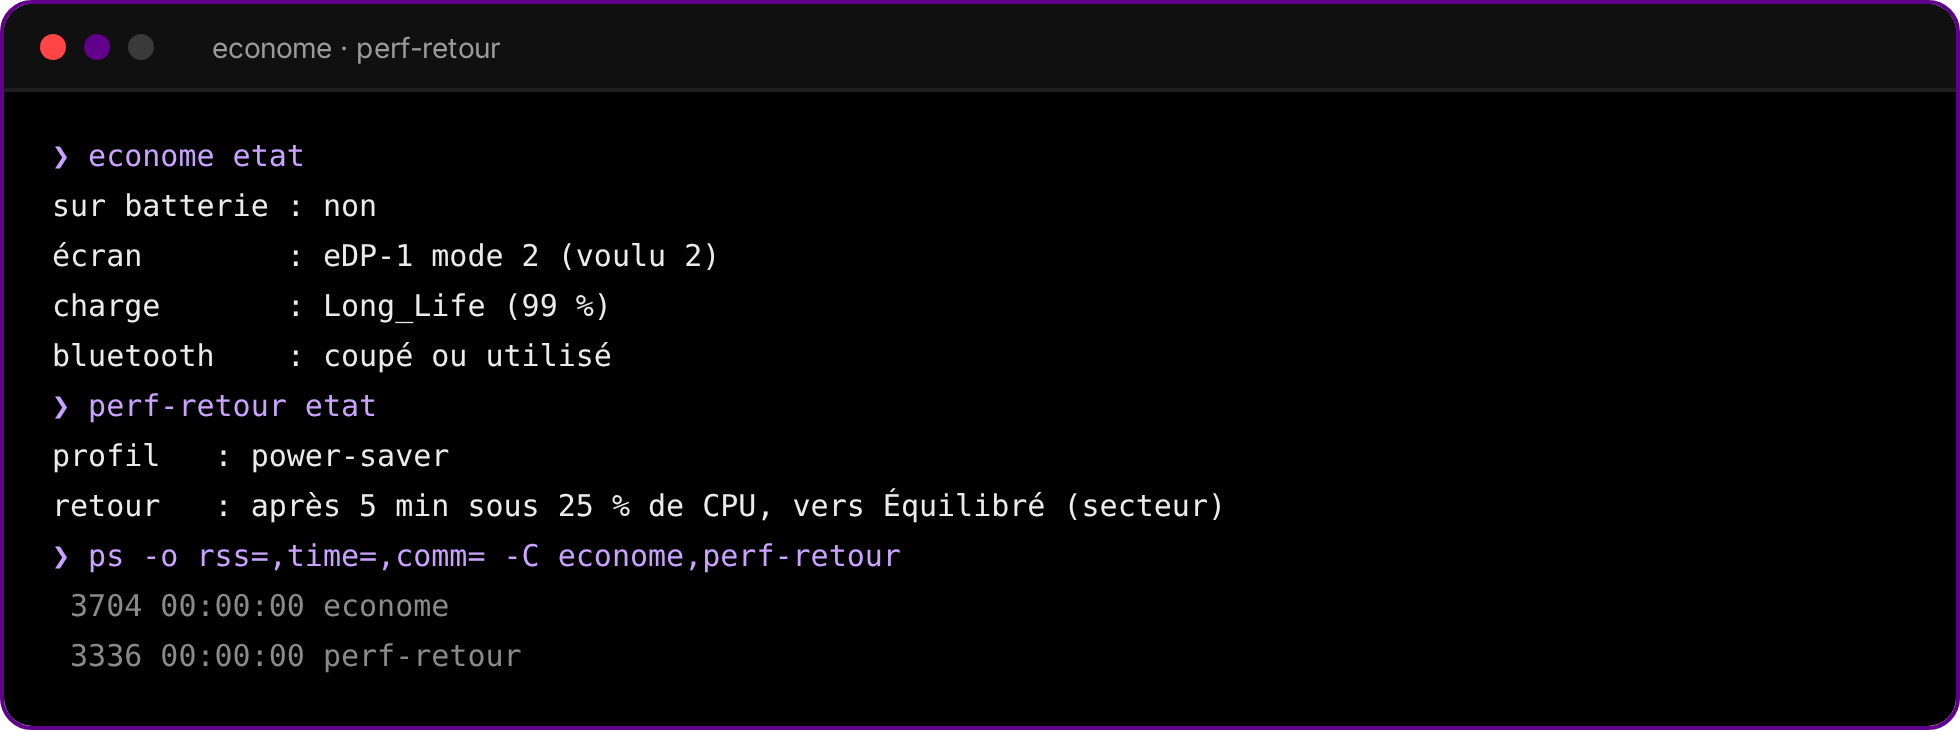
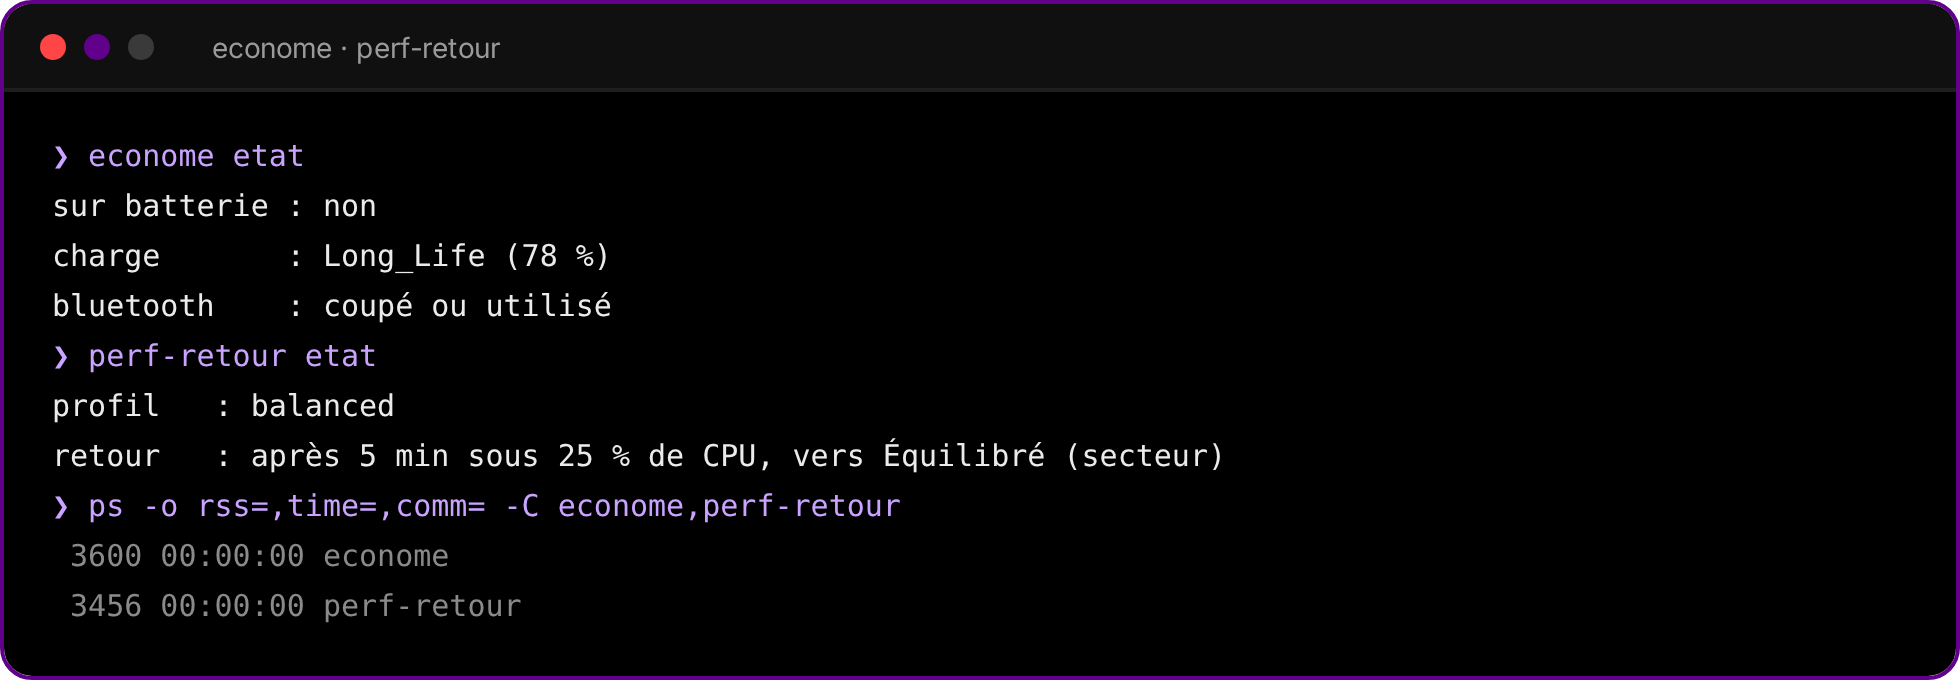
econome ne change plus la fréquence de l'écran
Chaque changement de fréquence faisait perdre à la dalle son auto-rafraîchissement
jusqu'au redémarrage : 2,95 W avec, 4,08 W sans, en 60 Hz au repos. LISEZ-MOI et
image mis à jour.

Source : d3b8789

diff --git a/econome/src/main.rs b/econome/src/main.rs
@@ -1,13 +1,11 @@
-// econome: three small battery savings in one sleeping process.
+// econome: two small battery savings in one sleeping process.
 //   - Bluetooth is rfkill-blocked after 10 min with nothing connected
-//   - the built-in screen goes to 60 Hz on battery, back to its fastest rate on AC
 //   - plugged in, full, and not in Conservation for 20 min: back to Conservation
 //
 // It waits on the system bus (UPower, BlueZ). The only timers: every 5 min while
 // on AC (the charge mode has no signal), and the Bluetooth deadline when armed.
 //
 // Command line: econome            daemon
-//               econome ecran batterie|secteur
 //               econome etat
 
 use dbus::arg::{prop_cast, PropMap, RefArg, Variant};
@@ -15,7 +13,6 @@ use dbus::blocking::stdintf::org_freedesktop_dbus::ObjectManager;
 use dbus::blocking::Connection;
 use dbus::channel::MatchingReceiver;
 use dbus::message::MatchRule;
-use serde_json::Value;
 use std::fs;
 use std::io::Write;
 use std::process::Command;
@@ -75,38 +72,6 @@ fn notify(icon: &str, title: &str, body: &str) {
         "Notify",
         ("Économie d'énergie", 0u32, icon, title, body, Vec::<String>::new(), hints, 5000i32),
     );
-}
-
-// Screen
-
-fn rate(mode: &Value) -> f64 {
-    mode["refreshRate"].as_f64().unwrap_or(0.0)
-}
-
-/// (output name, current mode id, wanted mode id) for the enabled built-in screen
-fn screen_plan(battery: bool) -> Option<(String, String, String)> {
-    let out = Command::new("kscreen-doctor").arg("-j").output().ok()?;
-    let json: Value = serde_json::from_slice(&out.stdout).ok()?;
-    // type 7 = Panel in libkscreen
-    let panel = json["outputs"].as_array()?.iter().find(|o| o["type"] == 7 && o["enabled"] == true)?;
-    let modes = panel["modes"].as_array()?;
-    let current = modes.iter().find(|m| m["id"] == panel["currentModeId"])?;
-    let same_size = modes.iter().filter(|m| m["size"] == current["size"]);
-    let wanted = if battery {
-        same_size.filter(|m| rate(m) >= 50.0).min_by(|a, b| (rate(a) - 60.0).abs().total_cmp(&(rate(b) - 60.0).abs()))?
-    } else {
-        same_size.max_by(|a, b| rate(a).total_cmp(&rate(b)))?
-    };
-    Some((panel["name"].as_str()?.to_string(), current["id"].as_str()?.to_string(), wanted["id"].as_str()?.to_string()))
-}
-
-fn set_screen(battery: bool) -> bool {
-    let Some((name, current, wanted)) = screen_plan(battery) else { return false };
-    if current == wanted {
-        return true;
-    }
-    let arg = format!("output.{name}.mode.{wanted}");
-    Command::new("kscreen-doctor").arg(arg).output().is_ok_and(|o| o.status.success())
 }
 
 // Bluetooth
@@ -192,7 +157,6 @@ fn run() -> Result<(), dbus::Error> {
         watch(&bus, rule.static_clone(), &bt)?;
     }
 
-    let mut screen_for: Option<bool> = None;
     let mut next_poll: Option<Instant> = None;
     let mut full_since: Option<Instant> = None;
     let mut bt_check: Option<Instant> = None;
@@ -202,16 +166,12 @@ fn run() -> Result<(), dbus::Error> {
         let now = Instant::now();
         if power.swap(false, Ordering::Relaxed) || next_poll.is_some_and(|t| t <= now) {
             let battery = on_battery();
-            // kscreen may not be ready at login: retry on the next poll
-            if screen_for != Some(battery) && set_screen(battery) {
-                screen_for = Some(battery);
-            }
             if battery {
                 full_since = None;
             } else {
                 back_to_conservation(&mut full_since, now, full_wait);
             }
-            next_poll = (!battery || screen_for != Some(battery)).then(|| now + AC_POLL);
+            next_poll = (!battery).then(|| now + AC_POLL);
         }
 
         if bt.swap(false, Ordering::Relaxed) {
@@ -249,19 +209,14 @@ fn main() {
                 std::process::exit(1);
             }
         }
-        ["ecran", which @ ("batterie" | "secteur")] => {
-            std::process::exit(if set_screen(*which == "batterie") { 0 } else { 1 });
-        }
         ["etat"] => {
             let bt = Connection::new_system().is_ok_and(|b| bluetooth_idle(&b));
-            let screen = screen_plan(on_battery()).map(|(n, c, w)| format!("{n} mode {c} (voulu {w})"));
             println!("sur batterie : {}", if on_battery() { "oui" } else { "non" });
-            println!("écran        : {}", screen.unwrap_or_else(|| "introuvable".into()));
             println!("charge       : {} ({} %)", charge_mode().unwrap_or_else(|| "?".into()), capacity());
             println!("bluetooth    : {}", if bt { "allumé, rien de connecté" } else { "coupé ou utilisé" });
         }
         _ => {
-            eprintln!("usage : econome [ecran batterie|secteur | etat]");
+            eprintln!("usage : econome [etat]");
             std::process::exit(2);
         }
     }

diff --git a/README.fr.md b/README.fr.md
@@ -4,17 +4,18 @@
 
 <p align="center"><a href="README.md">🇬🇧 English version</a></p>
 
-**Deux petits démons qui économisent la batterie d'un portable sous KDE Plasma : le Bluetooth allumé pour rien, l'écran à haute fréquence sur batterie, le plafond de charge oublié, le profil Performance qu'on n'a jamais quitté. Ils dorment sur D-Bus et ne se réveillent que quand quelque chose change.**
+**Deux petits démons qui économisent la batterie d'un portable sous KDE Plasma : le Bluetooth allumé pour rien, le plafond de charge oublié, le profil Performance qu'on n'a jamais quitté. Ils dorment sur D-Bus et ne se réveillent que quand quelque chose change.**
 
 <p align="center"><img src="docs/etat.png" width="80%" alt="econome etat et perf-retour etat"></p>
 
 ## econome
 
 - **Bluetooth** : allumé depuis 10 minutes sans aucun appareil connecté, toutes les radios Bluetooth sont coupées, comme avec le bouton de Plasma, et une notification le dit. Pour le rallumer, le bouton habituel.
-- **Écran** : sur batterie, l'écran intégré passe au mode le plus proche de 60 Hz, à la même définition ; sur secteur, il revient à sa fréquence la plus haute. Seulement quand tu branches ou débranches : une fréquence choisie à la main reste.
 - **Plafond de charge** : branché, à 99 % ou plus et hors Conservation depuis 20 minutes, la batterie repasse en Conservation (avec `batterie-mode`, plus bas), et une notification le dit. Pour le jour où tu as chargé à 100 % avant de partir et où tu as oublié de revenir.
 
 Il attend sur le bus système (UPower, BlueZ). Ses seuls minuteurs : toutes les 5 minutes sur secteur, parce que le mode de charge n'envoie aucun signal, et l'échéance du Bluetooth quand elle est armée. Moins de 4 Mo de mémoire.
+
+Les premières versions faisaient aussi passer l'écran en 60 Hz sur batterie et à sa fréquence la plus haute sur secteur. C'est retiré : sur le portable pour lequel il est fait, chaque changement de fréquence faisait perdre à la dalle son auto-rafraîchissement (PSR) jusqu'au redémarrage suivant, ce qui coûtait plus que la baisse de fréquence ne rapportait (mesuré au repos : 2,95 W avec le PSR, 4,08 W sans, en 60 Hz tous les deux).
 
 ## perf-retour
 
@@ -30,7 +31,7 @@ Fait sur un Lenovo Yoga 7 2-en-1 (ideapad-laptop). Un portable dont la batterie 
 
 ## Installation
 
-Il faut KDE Plasma 6 (`kscreen-doctor`), power-profiles-daemon, BlueZ, UPower et Rust (`cargo`).
+Il faut KDE Plasma 6, power-profiles-daemon, BlueZ, UPower et Rust (`cargo`).
 
 ```bash
 git clone https://github.com/glime32/kde-econome && cd kde-econome
@@ -44,8 +45,7 @@ Chaque installeur compile son démon, le met dans `~/.local/bin` et active un se
 ## En ligne de commande
 
 ```
-econome etat                      ce qu'il voit : secteur, mode de l'écran, mode de charge, Bluetooth
-econome ecran batterie|secteur    applique la règle de l'écran tout de suite
+econome etat                      ce qu'il voit : secteur, mode de charge, Bluetooth
 perf-retour etat                  profil actuel et quand il reviendrait en arrière
 ```
 

diff --git a/README.md b/README.md
@@ -4,17 +4,18 @@
 
 <p align="center"><a href="README.fr.md">🇫🇷 Version française</a></p>
 
-**Two small daemons that save battery on a KDE Plasma laptop: Bluetooth left on for nothing, a high refresh rate on battery, a charge limit you forgot to put back, a Performance profile you forgot to leave. They sleep on D-Bus and only wake up when something changes.**
+**Two small daemons that save battery on a KDE Plasma laptop: Bluetooth left on for nothing, a charge limit you forgot to put back, a Performance profile you forgot to leave. They sleep on D-Bus and only wake up when something changes.**
 
 <p align="center"><img src="docs/etat.png" width="80%" alt="econome etat and perf-retour etat"></p>
 
 ## econome
 
 - **Bluetooth**: after 10 minutes switched on with no device connected, every Bluetooth radio is soft-blocked, like Plasma's own toggle, and a notification says so. Turn it back on with the usual button.
-- **Screen**: on battery, the built-in screen goes to the mode closest to 60 Hz at the same resolution; on AC, back to its fastest rate. Only when you plug or unplug, so a rate you pick by hand stays.
 - **Charge limit**: plugged in, at 99 % or more and not in Conservation for 20 minutes, the battery goes back to Conservation (through `batterie-mode`, below), with a notification. For the day you charged to 100 % before a trip and never switched back.
 
 It waits on the system bus (UPower, BlueZ). The only timers: every 5 minutes while on AC, since the charge mode has no change signal, and the Bluetooth deadline when it is armed. Under 4 MB of RAM.
+
+Earlier versions also switched the screen between 60 Hz on battery and its fastest rate on AC. That part is gone: on the laptop it was made for, every change of refresh rate made the panel lose its self-refresh (PSR) until the next reboot, which cost more than the lower rate saved (measured at rest: 2.95 W with PSR, 4.08 W without, both at 60 Hz).
 
 ## perf-retour
 
@@ -30,7 +31,7 @@ Made on a Lenovo Yoga 7 2-in-1 (ideapad-laptop). A laptop whose battery has `cha
 
 ## Install
 
-Needs KDE Plasma 6 (`kscreen-doctor`), power-profiles-daemon, BlueZ, UPower and Rust (`cargo`).
+Needs KDE Plasma 6, power-profiles-daemon, BlueZ, UPower and Rust (`cargo`).
 
 ```bash
 git clone https://github.com/glime32/kde-econome && cd kde-econome
@@ -44,8 +45,7 @@ Each installer builds its daemon, puts it in `~/.local/bin` and enables a system
 ## Command line
 
 ```
-econome etat                      what it sees: power source, screen mode, charge mode, Bluetooth
-econome ecran batterie|secteur    apply the screen rule now
+econome etat                      what it sees: power source, charge mode, Bluetooth
 perf-retour etat                  current profile and when it would go back
 ```
 
